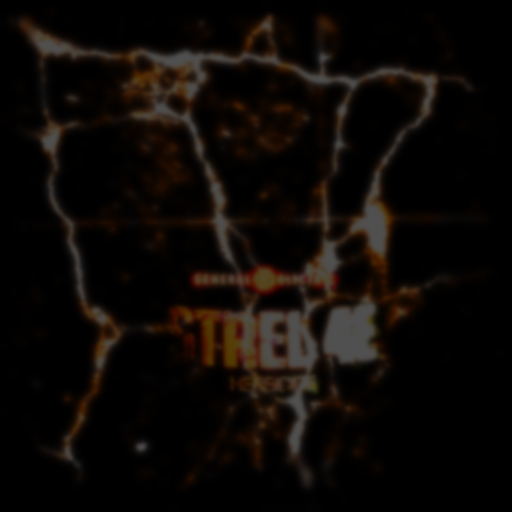
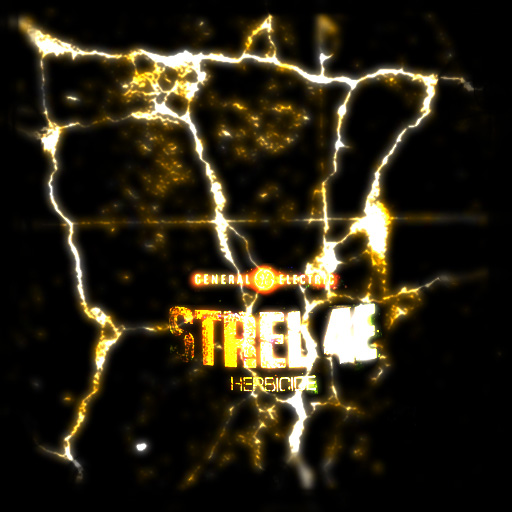
Some cleanup, preparing to add env. mapping to ball

diff --git a/code/ball.cpp b/code/ball.cpp
@@ -3,6 +3,7 @@
 
 /*
 	- FIXMEs
+	- add fast way to switch between different beam and map behaviour
 */
 
 #include "main.h"
@@ -26,7 +27,7 @@ const unsigned int kMapAnd = 511;
 const unsigned int kMapShift = 9;
 
 // max. depth
-const unsigned int kRayLength = 256;
+const unsigned int kRayLength = 384;
 
 // height projection table
 static unsigned int s_heightProj[kRayLength];
@@ -35,7 +36,7 @@ static unsigned int s_heightProj[kRayLength];
 const float kBallRadius = 510.f;
 
 // scale applied to each beam sample
-const uint8_t kBeamMul = 128;
+const uint8_t kBeamMul = 12;
 
 static void vball_ray(uint32_t *pDest, int curX, int curY, int dX, int dY)
 {
@@ -44,7 +45,9 @@ static void vball_ray(uint32_t *pDest, int curX, int curY, int dX, int dY)
 
 	const unsigned int U = curX >> 8 & kMapAnd, V = (curY >> 8 & kMapAnd) << kMapShift;
 	__m128i lastColor = c2vISSE(s_pColorMap[U+V]);
+
 	__m128i beamAccum = _mm_setzero_si128();
+	__m128i beamMul = g_gradientUnp[kBeamMul];
 
 	for (unsigned int iStep = 0; iStep < kRayLength; ++iStep)
 	{
@@ -55,35 +58,34 @@ static void vball_ray(uint32_t *pDest, int curX, int curY, int dX, int dY)
 		// prepare UVs
 		unsigned int U0, V0, U1, V1, fracU, fracV;
 		bsamp_prepUVs(curX, curY, kMapAnd, kMapShift, U0, V0, U1, V1, fracU, fracV);
-//		unsigned int U0 = curX >> 8 & kMapAnd, V0 = (curY >> 8 & kMapAnd) << kMapShift;
 
 		// fetch height & unpacked color
 		const unsigned int mapHeight = bsamp8(s_heightMapMix, U0, V0, U1, V1, fracU, fracV);
 		__m128i color = bsamp32(s_pColorMap, U0, V0, U1, V1, fracU, fracV);
-//		const unsigned int mapHeight = s_heightMapMix[U0+V0];
-//		__m128i color = c2vISSE(s_pColorMap[U0+V0]);
 
 		// fetch, accumulate & add beam (separate map)
 		{
-			const __m128i beam = bsamp32(s_pBeamMap, U0, V0, U1, V1, fracU, fracV);
+//			const __m128i beam = bsamp32(s_pBeamMap, U0, V0, U1, V1, fracU, fracV);
 //			const __m128i beam = c2vISSE(s_pBeamMap[U0+V0]);
-			beamAccum = _mm_adds_epu16(beamAccum, beam);
-			
+
+#if 0			
 			// pre-multiply
-			__m128i beamMul = g_gradientUnp[kBeamMul];
 			beamAccum = _mm_adds_epu16(beamAccum, _mm_srli_epi16(_mm_mullo_epi16(beam, beamMul), 8));
+			color = _mm_adds_epu16(color, beamAccum);
+#endif
 
+#if 0
 			// clamps & add
-//			beamAccum = vminISSE(beamAccum, g_gradientUnp[255]);
-//			color = vminISSE(_mm_adds_epu16(color, beamAccum), g_gradientUnp[255]);
+			beamAccum = vminISSE(beamAccum, g_gradientUnp[255]);
+			color = vminISSE(_mm_adds_epu16(color, beamAccum), g_gradientUnp[255]);
+#endif
 
+#if 0
 			// just add (overflow "trick")
-//			color = _mm_adds_epu16(color, beamAccum);
+			beamAccum = _mm_adds_epu16(beamAccum, beam);
+			color = _mm_adds_epu16(color, beamAccum);
+#endif
 		}
-
-		// accumulate & add beam (alpha channel)
-//		const __m128i alpha = _mm_shufflelo_epi16(color, 0xff));
-		// ...
 
 		// project height
 		const unsigned int height = mapHeight*s_heightProj[iStep] >> 8;
@@ -96,14 +98,8 @@ static void vball_ray(uint32_t *pDest, int curX, int curY, int dX, int dY)
 			// draw span (clipped)
 			cspanISSE(pDest + lastDrawnHeight, 1, height - lastHeight, drawLength, lastColor, color);
 			lastDrawnHeight = height;
-
-			// draw span
-//			cspanISSE_noclip(pDest + lastDrawnHeight, 1, drawLength, lastColor, color);
-//			lastDrawnHeight = height;
-//			lastColor = color;
 		}
 
-		// comment for non-clipped span draw
 		lastHeight = height;
 		lastColor = color;
 	}
@@ -209,7 +205,6 @@ bool Ball_Create()
 		return false;
 
 	// load beam map
-//	s_pBeamMap = Image_Load32("assets/unused/ibiza_rip/x11.jpg");
 	s_pBeamMap = Image_Load32("assets/ball/beammap.jpg");
 	if (s_pBeamMap == NULL)
 		return false;
@@ -232,6 +227,7 @@ void Ball_Destroy()
 
 void Ball_Draw(uint32_t *pDest, float time, float delta)
 {
+#if 0
 	// mix height map (FIXME)
 	float mapMix = fmodf(time*2.f, 128.f) / 16.f;
 	if (mapMix > 4.f) mapMix = 4.f - (mapMix - 4.f);
@@ -243,9 +239,10 @@ void Ball_Draw(uint32_t *pDest, float time, float delta)
 	pMap2 = s_pHeightMap[(int) mapMixHi];
 	memcpy_fast(s_heightMapMix, pMap1, 512*512);
 	Mix32(reinterpret_cast<uint32_t *>(s_heightMapMix), reinterpret_cast<uint32_t *>(pMap2), 512*512/4, mapMixAlpha);	
+#endif
 
 	// static height map
-	// memcpy_fast(s_heightMapMix, s_pHeightMap[2], 512*512);
+	memcpy_fast(s_heightMapMix, s_pHeightMap[4], 512*512);
 
 	// render unwrapped ball
 	vball(g_renderTarget, time);

diff --git a/code/demo.cpp b/code/demo.cpp
@@ -69,8 +69,8 @@ void Demo_Draw(uint32_t *pDest, float timer, float delta)
 #endif
 
 //	Twister_Draw(pDest, timer, delta);
-	Landscape_Draw(pDest, timer, delta);
-//	Ball_Draw(pDest, timer, delta);
+//	Landscape_Draw(pDest, timer, delta);
+	Ball_Draw(pDest, timer, delta);
 //	Tunnelscape_Draw(pDest, timer, delta);
 
 	// blit logo to 800x600

diff --git a/code/landscape.cpp b/code/landscape.cpp
@@ -3,6 +3,7 @@
 
 /*
 	- more fixed point (+ LUT)
+	- procedural fog LUT
 */
 
 #include "main.h"
@@ -98,7 +99,6 @@ static void vscape_ray(uint32_t *pDest, int curX, int curY, int dX, int dY, floa
 			lastDrawnHeight = height;
 		}
 
-		// comment for non-clipped span draw
 		lastHeight = height;
 		lastColor = color;
 	}

diff --git a/code/tunnelscape.cpp b/code/tunnelscape.cpp
@@ -84,7 +84,6 @@ static void tscape_ray(uint32_t *pDest, int curX, int curY, int dX, int dY)
 			pDest += drawLength;
 		}
 
-		// comment for non-clipped span draw
 		lastHeight = height;
 		lastColor = color;
 	}

diff --git a/code/heartquake.h b/code/heartquake.h
@@ -1,5 +1,5 @@
 
-// cookiedough -- Heartquake-style water (640x480)
+// cookiedough -- Heartquake-style water
 
 #ifndef _HEARTQUAKE_H_
 #define _HEARTQUAKE_H_

diff --git a/code/heartquake.cpp b/code/heartquake.cpp
@@ -1,5 +1,5 @@
 
-// cookiedough -- Heartquake-style water (640x480)
+// cookiedough -- Heartquake-style water
 
 #include "main.h"
 // #include "heartquake.h"

diff --git a/code/clonetunnels.h b/code/clonetunnels.h
@@ -1,0 +1,4 @@
+
+// cookiedough -- 'Clone meets clone' tunnels
+
+#pragma once

diff --git a/code/clonetunnels.cpp b/code/clonetunnels.cpp
@@ -1,0 +1,2 @@
+
+// cookiedough -- 'Clone meets clone' tunnels
